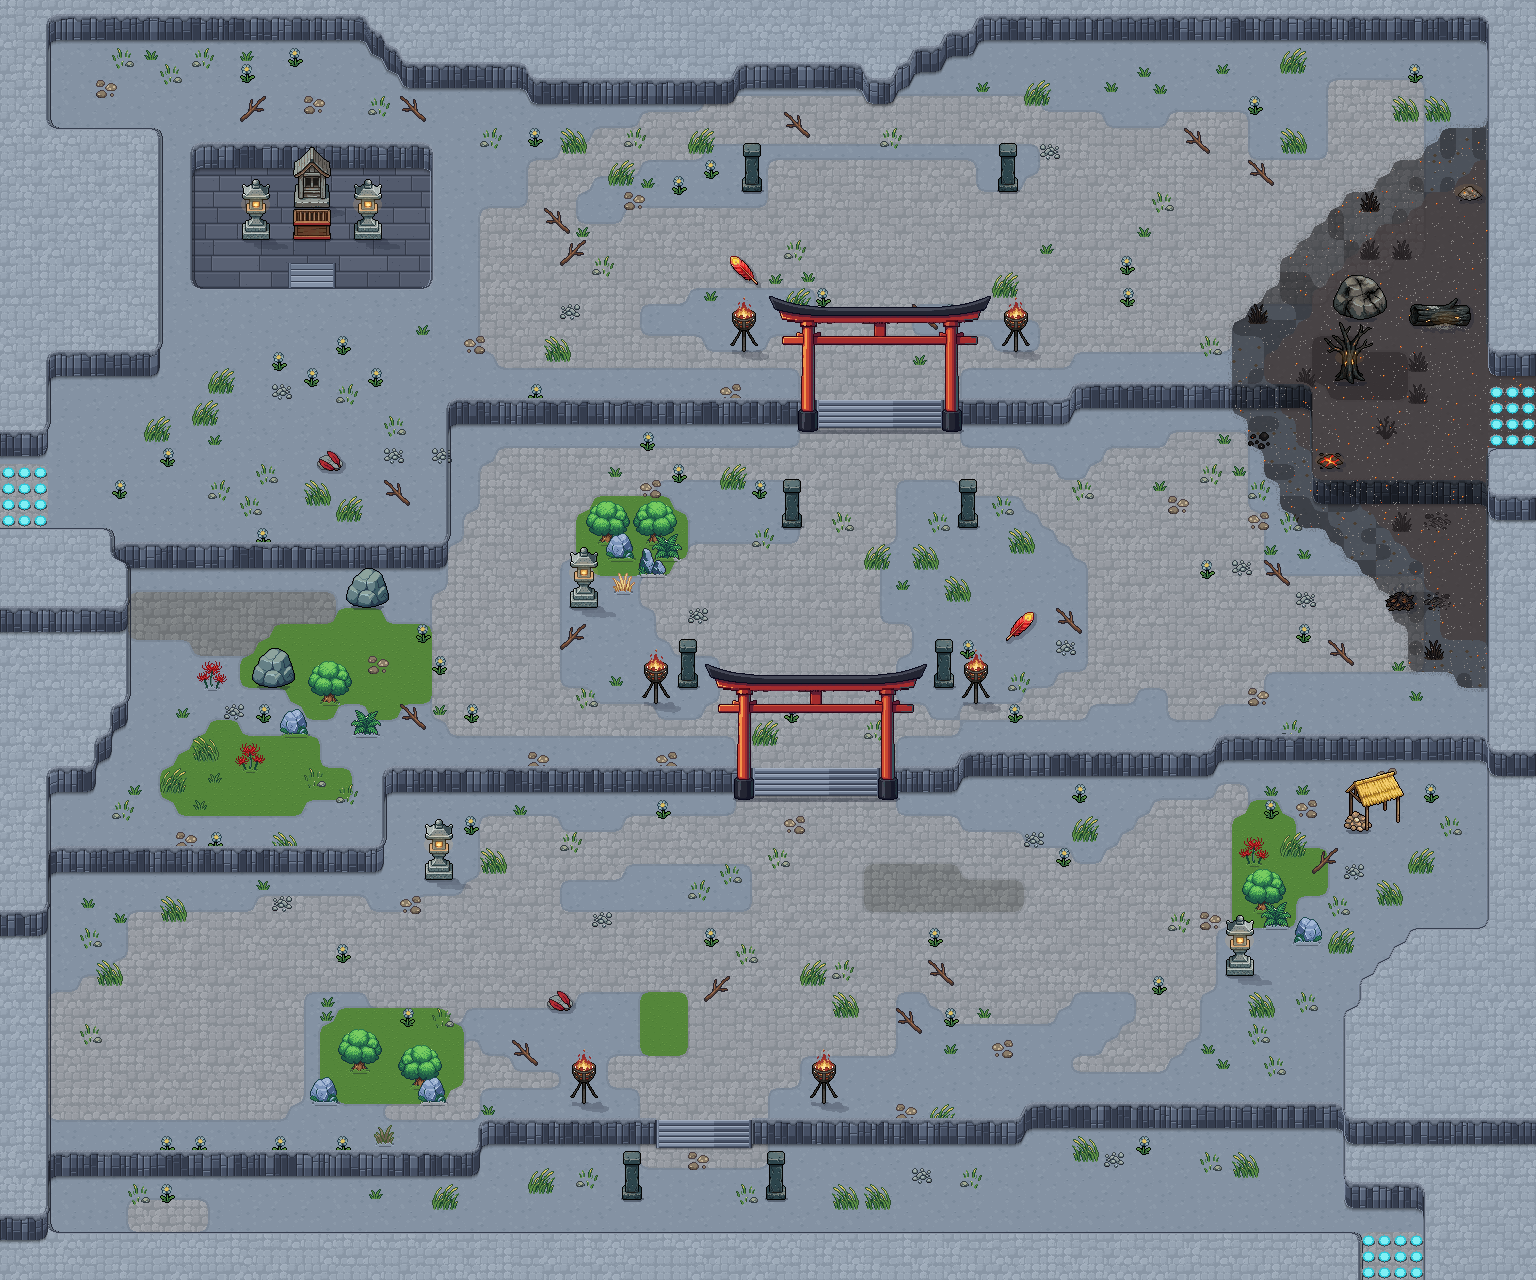
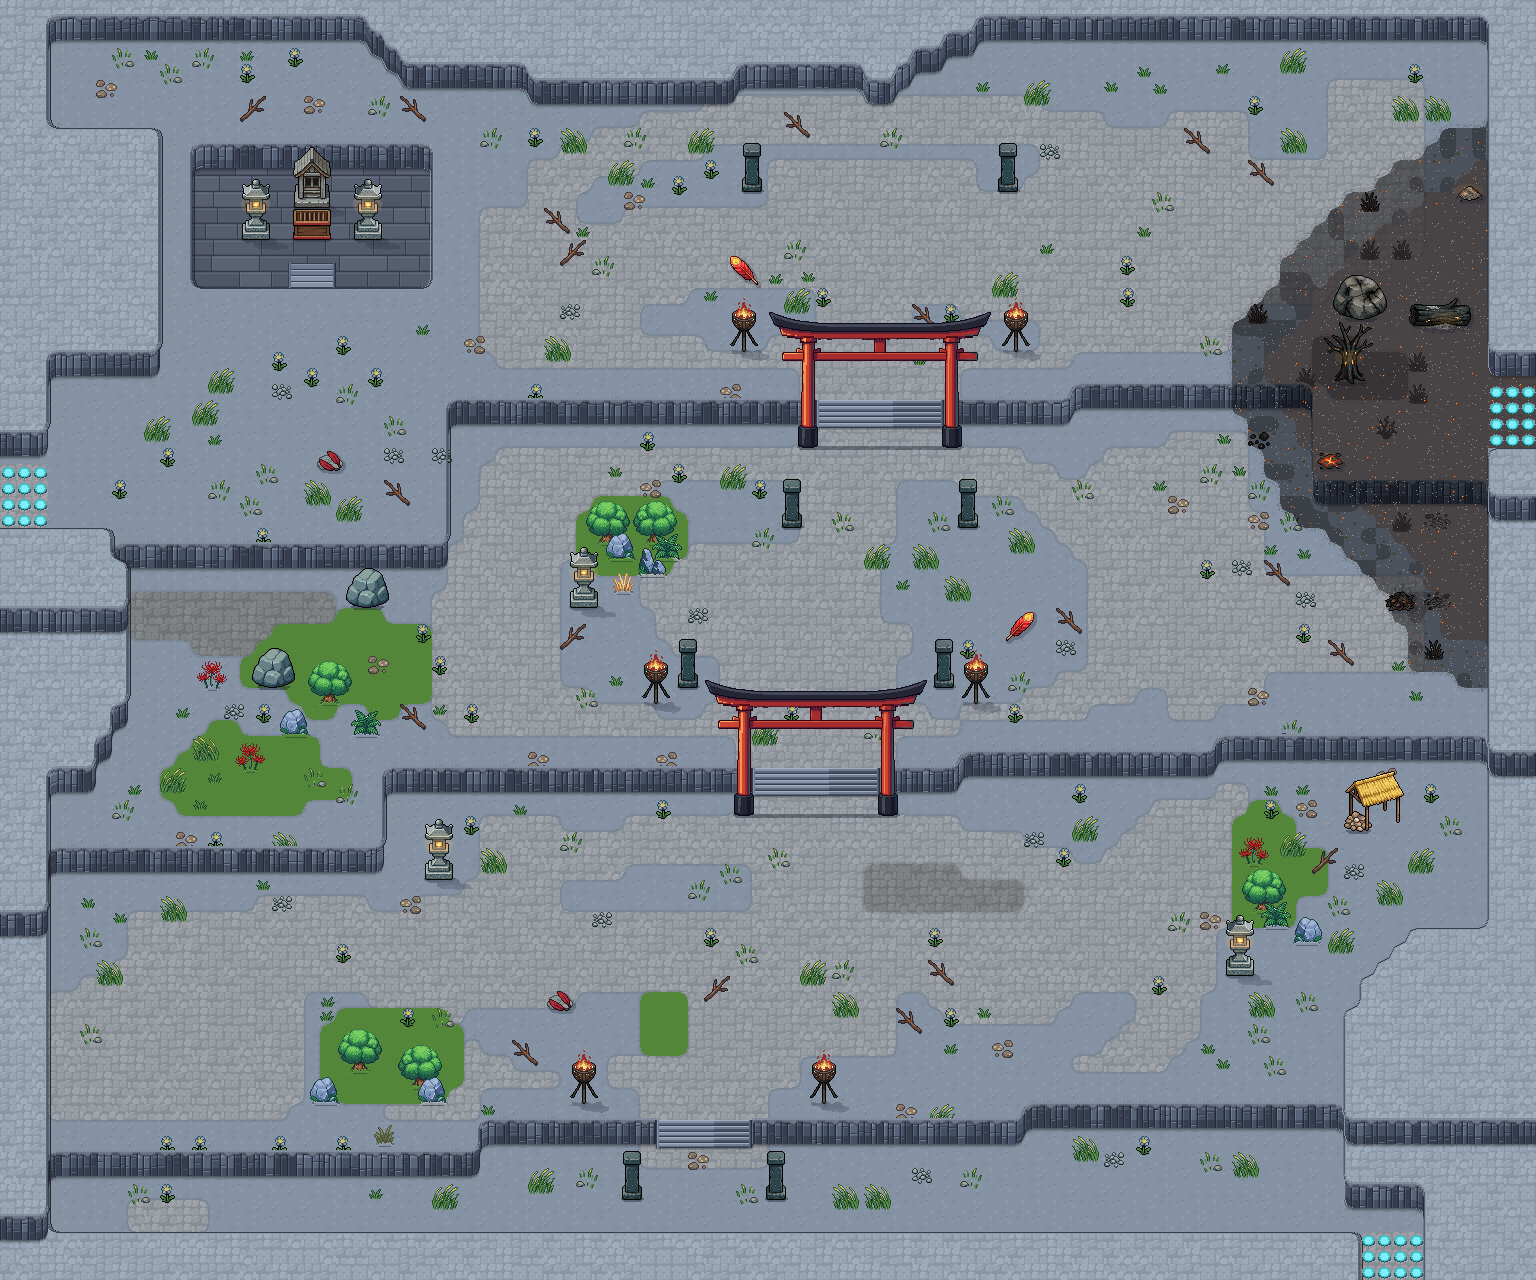
Karte 50: Vorschau Torii eine Kachel tiefer (K50_TORII_DY)
Claude-Session: https://claude.ai/code/session_01SaoYHKhnro4LFcPJqjaPsq

diff --git a/tools/karte50_objekte.py b/tools/karte50_objekte.py
@@ -135,8 +135,9 @@ def main():
             continue
         achse = (x0 * T + (x1 + 1) * T) / 2.0
         if ry < 60:                                                  # die beiden Torii (untere Treppe ohne Tor)
-            setze('torii', achse, (ry + 1) * T + T - 1, {'fest_pos': True, 'vor_wand': True, 'nur_kontakt': True,
-                                                         'sortier': (ry + 1) * T + T - 1}, pruefen=False)
+            dy_t = int(os.environ.get('K50_TORII_DY', '1'))           # Nutzer: Tor eine Kachel tiefer (Vorschau)
+            setze('torii', achse, (ry + 1 + dy_t) * T + T - 1, {'fest_pos': True, 'vor_wand': True, 'nur_kontakt': True,
+                                                                'sortier': (ry + 1 + dy_t) * T + T - 1}, pruefen=False)
         paar('schale', achse, (x1 - x0 + 1) * T / 2.0 + 24, (ry - 1) * T + 12, {'anim': 'kerzen', 'flammen_box': [[4, 0, 24, 20]],
                                                                               'flammen_alle': True, 'flammen_amp': 1.4})
         paar('pfosten', achse, (x1 - x0 + 1) * T / 2.0 + 24, (ry + 4) * T + 12)
